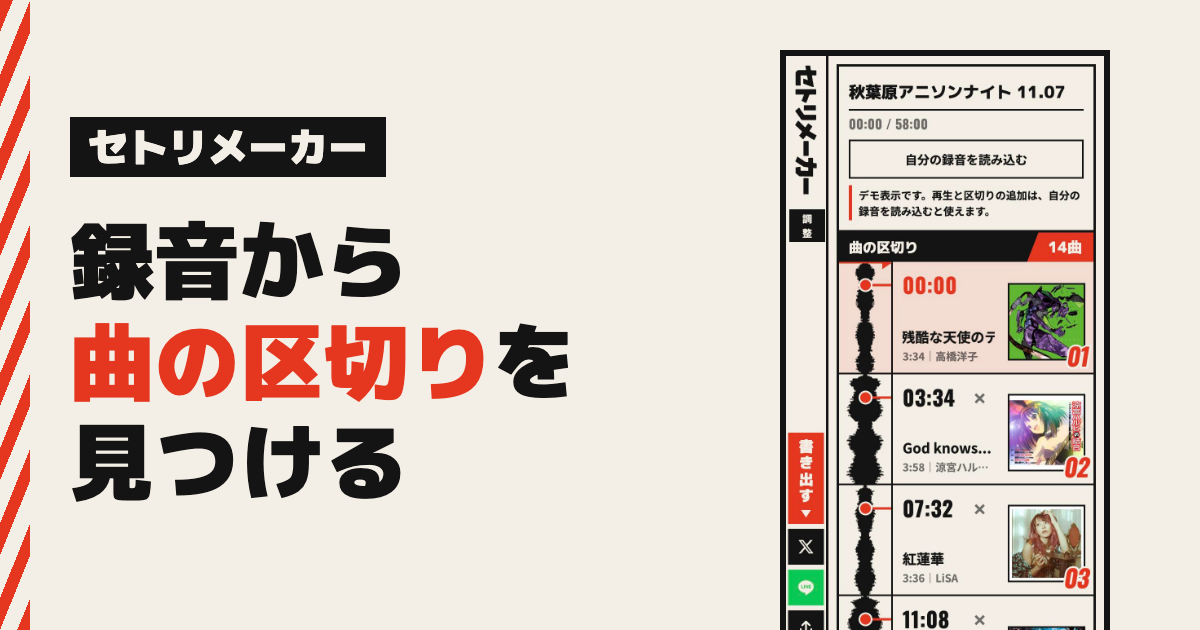
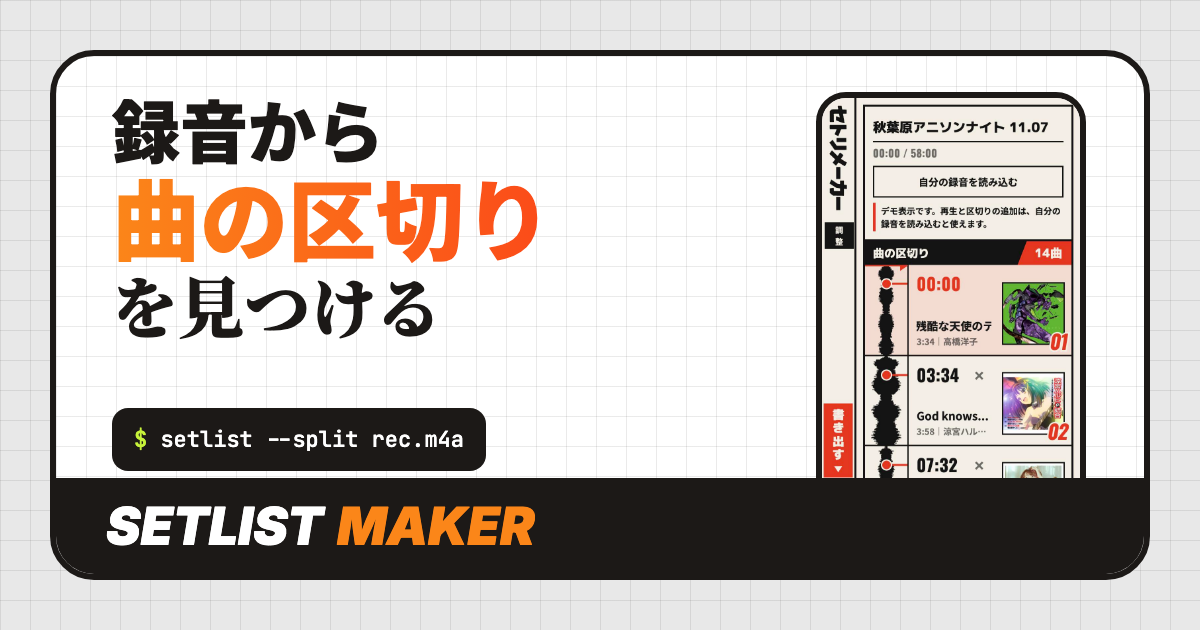
LPをリードオタク型の設計に変更（グリッド背景・ターミナル窓・番号付きPOINT）、シェアカード更新

diff --git a/index.html b/index.html
@@ -8,148 +8,217 @@
 <meta property="og:title" content="セトリメーカー｜録音から曲の区切りを見つける">
 <meta property="og:description" content="イベントの録音を入れると、曲の切れ目の候補が出ます。曲名を入れて、セトリとして書き出せます。録音は端末の外に出ません。">
 <meta property="og:url" content="https://yukitchy.github.io/setlist-maker/">
-<meta property="og:image" content="https://yukitchy.github.io/setlist-maker/ogp.png?v=2">
+<meta property="og:image" content="https://yukitchy.github.io/setlist-maker/ogp.png?v=3">
 <meta property="og:image:width" content="1200"><meta property="og:image:height" content="630">
 <meta name="twitter:card" content="summary_large_image">
 <link rel="icon" href="favicon.svg" type="image/svg+xml">
 <link rel="apple-touch-icon" href="apple-touch-icon.png">
 <link rel="preconnect" href="https://fonts.googleapis.com"><link rel="preconnect" href="https://fonts.gstatic.com" crossorigin>
-<link rel="stylesheet" href="https://fonts.googleapis.com/css2?family=M+PLUS+1p:wght@500;700;800;900&family=Noto+Sans+JP:wght@500;700&family=Oswald:wght@500;700&display=swap">
+<link rel="stylesheet" href="https://fonts.googleapis.com/css2?family=Inter:ital,wght@0,600;0,800;0,900;1,800;1,900&family=JetBrains+Mono:wght@500;700&family=Noto+Sans+JP:wght@500;700;900&family=Noto+Serif+JP:wght@700;900&display=swap">
 <style>
-:root{--paper:#F4EFE6;--ink:#141414;--red:#E5361F;--tint:#F0DCD3;--ink60:rgba(20,20,20,.62);--hf:"M PLUS 1p","Noto Sans JP",sans-serif;--nf:"Oswald","Noto Sans JP",sans-serif}
-@media (prefers-color-scheme:dark){:root:not([data-theme="light"]){--paper:#F4EFE6;--ink:#141414;--red:#E5361F}}
-:root[data-theme="dark"]{--paper:#F4EFE6;--ink:#141414;--red:#E5361F}
+:root{color-scheme:light;--ink:#1c1917;--ink2:#2a2623;--paper:#fff;--card:#f4f4f2;--gray:#e8e8e8;--mute:#6b6661;--line:rgba(28,25,23,.09);--o1:#fb8619;--o2:#fb4a19;--grad:linear-gradient(90deg,var(--o1),var(--o2));--lime:#c6f23a;--sans:"Noto Sans JP","Hiragino Sans","Yu Gothic",sans-serif;--serif:"Noto Serif JP","Hiragino Mincho ProN",serif;--en:"Inter","Noto Sans JP",sans-serif;--mono:"JetBrains Mono",ui-monospace,Menlo,monospace}
+@media (prefers-color-scheme:dark){:root:not([data-theme="light"]){--paper:#fff;--ink:#1c1917;--gray:#e8e8e8;--card:#f4f4f2}}
+:root[data-theme="dark"]{--paper:#fff;--ink:#1c1917;--gray:#e8e8e8;--card:#f4f4f2}
 *{box-sizing:border-box;margin:0;padding:0}
 html{color-scheme:light;-webkit-text-size-adjust:100%}
-body{background:var(--paper);color:var(--ink);font:500 16px/1.8 "Noto Sans JP",system-ui,sans-serif;overflow-x:hidden;word-break:auto-phrase;line-break:strict}
-h1,h2,.cap,.lead,.sub{text-wrap:balance}
-.w{max-width:760px;margin:0 auto;padding:0 16px}
-.sl{display:block;height:14px;background:repeating-linear-gradient(112deg,var(--red) 0 8px,transparent 8px 16px)}
-.top{display:flex;align-items:center;gap:12px;padding:14px 0;border-bottom:3px solid var(--ink)}
-.top img{width:30px;height:30px;display:block}
-.top b{font:900 18px var(--hf)}
-h1{font:900 clamp(34px,9.4vw,56px)/1.18 var(--hf);margin:30px 0 14px;letter-spacing:.01em}
-h1 em{font-style:normal;background:linear-gradient(transparent 62%,var(--red) 62% 92%,transparent 92%)}
-.lead{font-weight:700;font-size:17px;max-width:34em}
-.cta{display:flex;align-items:center;justify-content:center;gap:12px;width:100%;min-height:64px;margin:22px 0 6px;background:var(--red);color:var(--paper);text-decoration:none;font:900 22px var(--hf)}
-.cta::after{content:"";border-left:14px solid var(--paper);border-top:8px solid transparent;border-bottom:8px solid transparent}
-.sub{font-size:13px;color:var(--ink60);font-weight:700}
-.todo{margin:26px 0 0;border:3px solid var(--ink);background:var(--paper)}
-.todo h2{background:var(--ink);color:var(--paper);font:800 17px var(--hf);padding:8px 14px}
-.todo ol{list-style:none;counter-reset:n;padding:6px 14px 10px}
-.todo li{counter-increment:n;display:grid;grid-template-columns:38px 1fr;gap:6px;padding:9px 0;border-top:2px solid var(--ink);font-weight:700;line-height:1.6}
+body{background:var(--gray);background-image:linear-gradient(to right,var(--line) 1px,transparent 1px),linear-gradient(var(--line) 1px,transparent 1px);background-size:20px 20px;color:var(--ink);font:500 15px/1.85 var(--sans);overflow-x:hidden;word-break:auto-phrase;line-break:strict}
+h1,h2,h3,.sub,.cap{text-wrap:balance}
+.col{max-width:480px;margin:0 auto;padding:12px 12px 0}
+.hd{position:sticky;top:10px;z-index:30;display:flex;align-items:center;justify-content:space-between;background:var(--ink);border:3px solid var(--o1);border-radius:18px;padding:9px 10px 9px 16px}
+.lg{font:italic 900 22px/1 var(--en);color:#fff;letter-spacing:-.01em;text-decoration:none}
+.lg b{color:var(--o1);font-weight:inherit}
+.pill{display:inline-flex;align-items:center;justify-content:center;gap:8px;background:var(--grad);color:#fff;text-decoration:none;font:800 13px/1 var(--sans);border-radius:99px;padding:12px 16px}
+.tags{display:flex;overflow:hidden;margin:14px -12px 0;padding:0 0 2px}
+.tags .t{display:flex;flex:none;gap:8px;padding-right:8px;animation:mq 34s linear infinite}
+.tags span{flex:none;background:#fff;border:2.5px solid var(--ink);border-radius:99px;padding:8px 16px;font:900 13px/1 var(--sans);white-space:nowrap}
+@keyframes mq{to{transform:translateX(-100%)}}
+.hero{margin-top:14px;background:#fff;background-image:linear-gradient(to right,var(--line) 1px,transparent 1px),linear-gradient(var(--line) 1px,transparent 1px);background-size:20px 20px;border:3px solid var(--ink);border-radius:26px;overflow:hidden}
+.hero .in{padding:22px 20px 0}
+.kick{display:flex;align-items:center;justify-content:center;gap:10px;font:700 13px var(--sans);color:var(--ink2)}
+.kick::before,.kick::after{content:"";width:14px;height:2px;background:var(--ink);transform:rotate(60deg)}
+.kick::after{transform:rotate(-60deg)}
+h1{margin-top:16px;font:900 clamp(40px,12.4vw,54px)/1.2 var(--sans);letter-spacing:-.01em}
+h1 .o{display:block;color:var(--o2);background:var(--grad);-webkit-background-clip:text;background-clip:text;-webkit-text-fill-color:transparent;font-size:1.22em;line-height:1.15}
+h1 .s{display:block;font:900 1.02em/1.25 var(--serif)}
+.term{margin-top:20px;background:var(--ink);color:#fff;border-radius:12px;padding:12px 14px 13px;font:500 12px/1.75 var(--mono);max-width:300px}
+.dots{display:flex;gap:5px;margin-bottom:6px}.dots i{width:9px;height:9px;border-radius:50%;background:#ff5f57}.dots i:nth-child(2){background:#febc2e}.dots i:nth-child(3){background:#28c840}
+.term .g{color:var(--lime)}.term .m{color:#a8a29e}
+.hero .ph{margin:20px 20px 0;border:3px solid var(--ink);border-bottom:0;border-radius:20px 20px 0 0;background:#fff;line-height:0;overflow:hidden;height:300px}
+.hero .ph img{width:100%;display:block}
+.base{display:flex;align-items:center;justify-content:space-between;background:var(--ink);color:#fff;padding:14px 20px}
+.base .lg{font-size:26px}
+.base small{font:500 10px/1.5 var(--mono);color:#d6d3d1;text-align:right;letter-spacing:.06em}
+.cta{display:flex;align-items:center;justify-content:space-between;gap:12px;margin-top:16px;background:var(--grad);color:#fff;text-decoration:none;border:3px solid #fff;border-radius:99px;padding:14px 18px 14px 28px;box-shadow:0 0 0 2px var(--o2),0 8px 18px rgba(251,74,25,.35);font:900 20px/1.2 var(--sans);text-align:center}
+.cta small{display:block;font-weight:700;font-size:11px;margin-bottom:2px}
+.cta .tx{flex:1}
+.cta .ar{flex:none;width:34px;height:34px;border-radius:50%;background:#fff;display:flex;align-items:center;justify-content:center}
+.cta .ar::after{content:"";border-left:10px solid var(--o2);border-top:6px solid transparent;border-bottom:6px solid transparent;margin-left:3px}
+.note{margin-top:8px;text-align:center;font-size:12px;color:var(--mute);font-weight:700}
+.card{margin-top:16px;background:var(--card);border:3px solid var(--ink);border-radius:24px;padding:20px 16px}
+.eyebrow{font:italic 900 12px/1 var(--en);letter-spacing:.14em;color:var(--o2);margin-bottom:8px}
+h2{font:900 clamp(24px,6.8vw,28px)/1.35 var(--sans);margin-bottom:12px}
+h2 em{font-style:normal;color:var(--o2)}
+p+p{margin-top:10px}
+.todo{margin-top:16px;background:var(--ink);border-radius:20px;overflow:hidden;border:3px solid var(--o1);color:#fff}
+.todo .bar{display:flex;align-items:center;gap:6px;padding:10px 14px;border-bottom:1px solid rgba(255,255,255,.12);font:500 11px var(--mono);color:#a8a29e}
+.todo .bar i{width:9px;height:9px;border-radius:50%;background:#ff5f57}.todo .bar i:nth-child(2){background:#febc2e}.todo .bar i:nth-child(3){background:#28c840}.todo .bar span{margin-left:6px}
+.todo h2{font-size:19px;padding:14px 16px 0;margin:0;color:#fff}
+.todo ol{list-style:none;counter-reset:n;padding:6px 16px 14px}
+.todo li{counter-increment:n;display:grid;grid-template-columns:34px 1fr;gap:8px;padding:11px 0;border-top:1px dashed rgba(255,255,255,.2);font-weight:700;line-height:1.6}
 .todo li:first-child{border-top:0}
-.todo li::before{content:counter(n);font:700 30px/1 var(--nf);color:var(--red);transform:skewX(-9deg)}
-.todo small{display:block;font-weight:500;font-size:13px;color:var(--ink60)}
-section{padding:46px 0 0}
-h2.h{font:900 clamp(24px,6.4vw,32px)/1.25 var(--hf);display:flex;align-items:center;gap:10px;margin-bottom:14px}
-h2.h::before{content:"";flex:none;width:12px;height:26px;background:var(--red);transform:skewX(-14deg)}
-p+p{margin-top:12px}
-.flow{display:grid;grid-template-columns:1fr;gap:0;margin-top:16px;border:3px solid var(--ink)}
-.flow div{padding:12px 14px;border-top:2px solid var(--ink);font-weight:700}
-.flow div:first-child{border-top:0}
-.flow .no{background:var(--tint);border-top:2px solid var(--ink)}
-.flow s{color:var(--ink60);text-decoration-thickness:2px}
-.steps{display:grid;grid-template-columns:1fr 1fr;gap:12px;margin-top:18px;align-items:start}
-.ph{border:3px solid var(--ink);background:#fff;line-height:0}
-.ph img{display:block;width:100%;height:auto}
-.cap{margin-top:8px;font-size:14px;font-weight:700;line-height:1.6}
-.cap b{display:inline-block;background:var(--red);color:var(--paper);font:700 14px/1 var(--nf);padding:4px 7px;margin-right:6px;transform:skewX(-9deg)}
-.feat{list-style:none;display:grid;gap:0;margin-top:6px;border-top:3px solid var(--ink)}
-.feat li{padding:14px 0;border-bottom:2px solid var(--ink)}
-.feat b{display:block;font:800 18px/1.4 var(--hf);margin-bottom:2px}
-.feat span{color:var(--ink60);font-weight:700;font-size:15px}
-.box{border-left:6px solid var(--red);padding:4px 0 4px 14px;font-weight:700}
-.lim{list-style:none;margin-top:6px}
-.lim li{padding:10px 0 10px 26px;position:relative;border-bottom:2px solid var(--ink);font-weight:700}
-.lim li::before{content:"";position:absolute;left:2px;top:19px;width:12px;height:12px;background:var(--ink);transform:skewX(-14deg)}
-.end{margin-top:50px;background:var(--ink);color:var(--paper);padding:30px 16px 34px}
-.end h2{font:900 clamp(24px,6.6vw,32px)/1.3 var(--hf);margin-bottom:10px}
-.end p{font-weight:700;margin-bottom:6px}
-.end .cta{margin-top:18px}
-.end .sl{margin-top:26px}
-footer{padding:16px 0 30px;font-size:13px;color:var(--ink60);font-weight:700}
-@media(min-width:700px){.steps{gap:24px}.cta{max-width:420px}}
+.todo li::before{content:counter(n,decimal-leading-zero);font:italic 900 22px/1.2 var(--en);color:var(--o1)}
+.todo small{display:block;color:#d6d3d1;font-weight:500;font-size:12px}
+.strip{display:flex;overflow:hidden;margin:26px -12px 0;border-block:3px solid var(--ink);background:var(--ink);color:#fff;padding:8px 0}
+.strip .t{display:flex;flex:none;animation:mq 22s linear infinite}
+.strip span{flex:none;font:italic 900 15px/1 var(--en);letter-spacing:.06em;padding:0 16px;white-space:nowrap}
+.strip span::before{content:"";display:inline-block;width:8px;height:8px;background:var(--o1);margin-right:16px;transform:rotate(45deg)}
+.shots{display:grid;grid-template-columns:1fr 1fr;gap:12px;margin-top:14px;align-items:start}
+.shots .ph{border:3px solid var(--ink);border-radius:18px;background:#fff;line-height:0;overflow:hidden}
+.shots img{width:100%;height:auto;display:block}
+.cap{margin-top:8px;font-size:12.5px;font-weight:700;line-height:1.6}
+.cap b{display:inline-block;background:var(--grad);color:#fff;font:italic 900 12px/1 var(--en);padding:4px 7px;border-radius:99px;margin-right:6px}
+.pt{margin-top:18px;background:#fff;border:3px solid var(--ink);border-radius:24px;overflow:hidden}
+.pt .hd2{display:flex;align-items:center;gap:12px;padding:14px 16px 0}
+.pt .n{font:italic 900 13px/1 var(--en);letter-spacing:.1em;color:var(--o2)}
+.pt .n b{display:block;font-size:34px;letter-spacing:0;color:var(--ink);line-height:1}
+.pt h3{font:900 19px/1.4 var(--sans);margin:8px 16px 10px}
+.win{margin:0 16px;background:var(--ink);color:#fff;border-radius:12px;padding:10px 14px 12px;font:500 12px/1.9 var(--mono)}
+.win .bar{display:flex;align-items:center;gap:5px;margin-bottom:6px;color:#a8a29e;font-size:11px}
+.win .bar i{width:8px;height:8px;border-radius:50%;background:#ff5f57}.win .bar i:nth-child(2){background:#febc2e}.win .bar i:nth-child(3){background:#28c840}.win .bar span{margin-left:6px}
+.win .r{display:flex;justify-content:space-between;gap:10px}
+.win .r b{color:var(--o1);font-weight:700}.win .ok{color:var(--lime)}.win .dim{color:#a8a29e}
+.wave{display:flex;align-items:center;gap:2px;height:34px;margin:4px 0 2px}
+.wave i{flex:1;background:#fff;border-radius:2px;min-width:2px}
+.wave i.c{background:var(--o1);height:100%!important;flex:none;width:3px}
+.pt p{margin:12px 16px 18px;font-size:14px;color:var(--ink2);font-weight:500}
+.lim{list-style:none;margin-top:4px}
+.lim li{display:flex;gap:10px;padding:11px 0;border-top:1px dashed rgba(28,25,23,.25);font-weight:700;font-size:14px}
+.lim li:first-child{border-top:0}
+.lim li::before{content:"!";flex:none;width:22px;height:22px;border-radius:50%;background:var(--ink);color:var(--o1);font:900 13px/22px var(--en);text-align:center}
+.flow{list-style:none;counter-reset:f}
+.flow li{counter-increment:f;position:relative;padding:4px 0 18px 54px}
+.flow li::before{content:counter(f,decimal-leading-zero);position:absolute;left:0;top:0;width:40px;height:40px;border-radius:50%;background:var(--grad);color:#fff;font:italic 900 15px/40px var(--en);text-align:center}
+.flow li::after{content:"";position:absolute;left:19px;top:44px;bottom:2px;width:2px;background:var(--ink);opacity:.2}
+.flow li:last-child::after{display:none}
+.flow b{display:block;font:900 16px/1.5 var(--sans)}
+.flow span{font-size:13.5px;color:var(--ink2)}
+.end{margin-top:16px;background:var(--ink);color:#fff;border-radius:24px;padding:28px 18px 24px;text-align:center;border:3px solid var(--ink)}
+.end h2{color:#fff;margin-bottom:6px}.end p{font-size:14px;color:#d6d3d1}
+.end .eyebrow{color:var(--o1)}
+.foot{padding:18px 4px 40px;text-align:center;font:500 11px/1.8 var(--mono);color:var(--mute)}
+@media (prefers-reduced-motion:reduce){.tags .t,.strip .t{animation:none}}
+@media(min-width:700px){.col{padding-top:24px}}
 </style></head><body>
+<div class="col">
 
-<div class="w">
-<div class="top"><img src="favicon.svg" alt="" width="30" height="30"><b>セトリメーカー</b></div>
+<header class="hd"><a class="lg" href="#">SETLIST <b>MAKER</b></a><a class="pill" href="app/">デモを触る</a></header>
 
-<h1>録音から<br><em>曲の区切り</em>を<br>見つける</h1>
-<p class="lead">イベントの録音を入れると、曲の切れ目の候補を出します。曲名を入れて、セトリとして書き出せます。</p>
+<div class="tags" aria-hidden="true"><div class="t"><span>#区切り候補</span><span>#ジャケット表示</span><span>#時刻つきセトリ</span><span>#Xシェア</span><span>#LINEシェア</span><span>#録音は端末内</span><span>#ブラウザで動く</span></div><div class="t"><span>#区切り候補</span><span>#ジャケット表示</span><span>#時刻つきセトリ</span><span>#Xシェア</span><span>#LINEシェア</span><span>#録音は端末内</span><span>#ブラウザで動く</span></div></div>
 
-<a class="cta" href="app/">デモを触ってみる</a>
-<p class="sub">読む前に触ってOKです。スマホでそのまま動きます。</p>
+<section class="hero">
+<div class="in">
+<p class="kick">イベントのセトリを残したい人へ</p>
+<h1>録音から<span class="o">曲の区切り</span><span class="s">を見つける</span></h1>
+<div class="term"><div class="dots"><i></i><i></i><i></i></div><div><span class="g">$</span> setlist --split rec.m4a</div><div class="m">14曲の区切りの候補を表示</div></div>
+</div>
+<div class="ph"><img src="img/shot-list.jpg" alt="曲の区切りの一覧。左に波形、右にジャケットと曲番号" width="780" height="1688"></div>
+<div class="base"><span class="lg">SETLIST <b>MAKER</b></span><small>FROM RECORDING<br>TO SETLIST</small></div>
+</section>
 
-<div class="todo">
+<a class="cta" href="app/"><span class="tx"><small>読む前に触ってOK</small>デモを触ってみる</span><span class="ar"></span></a>
+<p class="note">スマホのブラウザでそのまま動きます</p>
+
+<section class="todo">
+<div class="bar"><i></i><i></i><i></i><span>onegai.md</span></div>
 <h2>ササキチさんにお願い（所要5分）</h2>
 <ol>
 <li><div>デモを開いて、曲名を1つ書き換える<small>1分。ボタンは「デモを触ってみる」</small></div></li>
 <li><div>「自分の録音を読み込む」で、実際のイベント録音を入れる<small>3分。録音は端末の外に出ません</small></div></li>
 <li><div>使いにくかったところを、ユウキにLINEで一言<small>1分。「ここで迷った」だけで十分です</small></div></li>
 </ol>
-</div>
-</div>
+</section>
 
-<div class="w"><section>
-<h2 class="h">録音のあとの手間を減らします</h2>
-<p>イベントのあと、録音を聴き返して曲が変わった時刻をメモし、曲名を調べて、並べて、投稿する。セトリを残すには、この作業が毎回かかります。</p>
-<div class="flow">
-<div class="no"><s>聴き返して、曲が変わる時刻を探す</s><br>→ 切れ目の候補を先に出します</div>
-<div>あなたがやること: 候補を確認して、ずれていたら直す</div>
-<div>曲名を入れる（ジャケットとアーティスト名が出ます）</div>
-<div>書き出して、コピー、X、LINEへ</div>
-</div>
-</section></div>
+<div class="strip" aria-hidden="true"><div class="t"><span>WHAT IS SETLIST MAKER</span><span>WHAT IS SETLIST MAKER</span><span>WHAT IS SETLIST MAKER</span><span>WHAT IS SETLIST MAKER</span></div><div class="t"><span>WHAT IS SETLIST MAKER</span><span>WHAT IS SETLIST MAKER</span><span>WHAT IS SETLIST MAKER</span><span>WHAT IS SETLIST MAKER</span></div></div>
 
-<div class="w"><section>
-<h2 class="h">使い方は3つです</h2>
-<div class="steps">
-<div>
-<div class="ph"><img src="img/shot-list.jpg" alt="曲の区切りの一覧。左に波形、右にジャケットと曲番号" width="780" height="1688"></div>
-<p class="cap"><b>1</b>録音を読み込むと、曲ごとに区切った一覧が出ます。</p>
-<p class="cap"><b>2</b>聴きながら「ここで区切る」で足して、曲名を入れます。</p>
+<section class="card">
+<p class="eyebrow">ABOUT</p>
+<h2>セトリメーカーは<br><em>録音のあとの手間</em>を減らすアプリ</h2>
+<p>イベントのあと、録音を聴き返して曲が変わった時刻をメモし、曲名を調べて並べ、投稿する。セトリを残すには、この作業が毎回かかります。</p>
+<p>セトリメーカーは切れ目の候補を先に出します。あなたがやるのは、候補の確認と直し、曲名の入力、書き出しです。</p>
+<div class="shots">
+<div><div class="ph"><img src="img/shot-list.jpg" alt="区切りの一覧" width="780" height="1688" loading="lazy"></div><p class="cap"><b>A</b>曲ごとに区切った一覧</p></div>
+<div><div class="ph"><img src="img/shot-export.jpg" alt="書き出し画面" width="780" height="1688" loading="lazy"></div><p class="cap"><b>B</b>時刻つきで書き出し</p></div>
 </div>
-<div>
-<div class="ph"><img src="img/shot-export.jpg" alt="セトリを書き出す画面。時刻と曲名が並ぶ" width="780" height="1688"></div>
-<p class="cap"><b>3</b>「書き出す」で、時刻つきのセトリになります。</p>
-</div>
-</div>
-</section></div>
+</section>
 
-<div class="w"><section>
-<h2 class="h">できること</h2>
-<ul class="feat">
-<li><b>区切りの候補を出す</b><span>音の大きさの落ち込みや立ち上がりから、曲が変わりそうな場所を探します。</span></li>
-<li><b>聴きながら、足す・外す</b><span>再生バーで聴き直し、「ここで区切る」で足します。要らない区切りは×で外せます。</span></li>
-<li><b>曲名を入れると、ジャケットが出る</b><span>曲名からジャケットとアーティスト名を探して並べます。</span></li>
-<li><b>そのままシェア</b><span>左の帯から、X、LINE、端末の共有、コピーができます。</span></li>
-</ul>
-</section></div>
+<div class="strip" aria-hidden="true"><div class="t"><span>FEATURES</span><span>FEATURES</span><span>FEATURES</span><span>FEATURES</span><span>FEATURES</span><span>FEATURES</span></div><div class="t"><span>FEATURES</span><span>FEATURES</span><span>FEATURES</span><span>FEATURES</span><span>FEATURES</span><span>FEATURES</span></div></div>
 
-<div class="w"><section>
-<h2 class="h">録音は外に出ません</h2>
-<p class="box">録音ファイルは、お使いのブラウザの中だけで解析します。サーバーには送りません。外に出る通信は、ジャケットを探すときの曲名と、書体の読み込みだけです。</p>
-</section></div>
+<article class="pt">
+<div class="hd2"><p class="n">POINT<b>01</b></p></div>
+<h3>区切りの候補を先に出す</h3>
+<div class="win"><div class="bar"><i></i><i></i><i></i><span>split.log</span></div>
+<div class="wave" aria-hidden="true"><i style="height:30%"></i><i style="height:70%"></i><i style="height:90%"></i><i style="height:60%"></i><i class="c"></i><i style="height:20%"></i><i style="height:80%"></i><i style="height:95%"></i><i style="height:55%"></i><i style="height:75%"></i><i class="c"></i><i style="height:25%"></i><i style="height:65%"></i><i style="height:90%"></i><i style="height:50%"></i><i style="height:35%"></i><i class="c"></i><i style="height:60%"></i><i style="height:85%"></i><i style="height:70%"></i></div>
+<div class="r"><span class="dim">切れ目の候補</span><b>00:00 / 03:34 / 07:32</b></div></div>
+<p>音の大きさの落ち込みや立ち上がりから、曲が変わりそうな場所を探します。</p>
+</article>
 
-<div class="w"><section>
-<h2 class="h">いまのところ苦手なこと</h2>
+<article class="pt">
+<div class="hd2"><p class="n">POINT<b>02</b></p></div>
+<h3>聴きながら足す・外す</h3>
+<div class="win"><div class="bar"><i></i><i></i><i></i><span>edit.sh</span></div>
+<div class="r"><span>ここで区切る</span><span class="ok">+ 追加</span></div>
+<div class="r"><span>要らない区切り</span><span class="ok">× 外す</span></div></div>
+<p>再生バーで聴き直し、「ここで区切る」で足します。要らない区切りは×で外せます。</p>
+</article>
+
+<article class="pt">
+<div class="hd2"><p class="n">POINT<b>03</b></p></div>
+<h3>曲名からジャケットを表示</h3>
+<div class="win"><div class="bar"><i></i><i></i><i></i><span>lookup.log</span></div>
+<div class="r"><span>曲名を入力</span><span class="ok">OK</span></div>
+<div class="r"><span>ジャケットとアーティスト名</span><span class="ok">取得</span></div></div>
+<p>曲名を入れると、ジャケットとアーティスト名を探して並べます。曲名は自動では入りません。</p>
+</article>
+
+<article class="pt">
+<div class="hd2"><p class="n">POINT<b>04</b></p></div>
+<h3>録音は端末の外に出ない</h3>
+<div class="win"><div class="bar"><i></i><i></i><i></i><span>network.log</span></div>
+<div class="r"><span>録音ファイル</span><span class="ok">送信なし</span></div>
+<div class="r"><span>ジャケット検索</span><span class="dim">曲名のみ</span></div>
+<div class="r"><span>書体の読み込み</span><span class="dim">Google Fonts</span></div></div>
+<p>録音ファイルは、お使いのブラウザの中だけで解析します。外に出る通信は、ジャケットを探すときの曲名と書体の読み込みだけです。</p>
+</article>
+
+<section class="card">
+<p class="eyebrow">LIMITS</p>
+<h2>いまのところ<em>苦手なこと</em></h2>
 <ul class="lim">
 <li>曲名は自動では入りません。自分で入力します。</li>
 <li>音の切れ目を手がかりにするので、切れ目のないつなぎは候補が出ないことがあります。そこは「ここで区切る」で足します。</li>
 <li>とても長い録音は、端末のメモリによって読み込めないことがあります。</li>
 <li>再生と区切りの追加は、自分の録音を読み込んだあとに使えます。デモでは動きません。</li>
 </ul>
-</section></div>
+</section>
 
-<div class="end">
-<div class="w" style="padding:0">
+<section class="card">
+<p class="eyebrow">HOW TO USE</p>
+<h2>使い方の流れ</h2>
+<ol class="flow">
+<li><b>録音を読み込む</b><span>「自分の録音を読み込む」から、イベントの録音ファイルを選びます。</span></li>
+<li><b>区切りを直す</b><span>聴きながら「ここで区切る」で足し、要らない区切りは×で外します。</span></li>
+<li><b>曲名を入れる</b><span>曲ごとに曲名を入力すると、ジャケットが出ます。</span></li>
+<li><b>書き出す</b><span>左の帯の「書き出す」で、時刻つきのセトリになります。コピー、X、LINEで共有できます。</span></li>
+</ol>
+</section>
+
+<section class="end">
+<p class="eyebrow">TRY IT</p>
 <h2>デモを開く</h2>
 <p>触ったあと、自分の録音を1本入れて、迷ったところをユウキに教えてください。</p>
-<a class="cta" href="app/">デモを触ってみる</a>
-<i class="sl"></i>
-</div>
-</div>
-<div class="w"><footer>セトリメーカー　試作版　制作: ユウキ</footer></div>
+<a class="cta" href="app/"><span class="tx"><small>読む前に触ってOK</small>デモを触ってみる</span><span class="ar"></span></a>
+</section>
 
+<footer class="foot">SETLIST MAKER　試作版<br>制作: ユウキ</footer>
+</div>
 </body></html>
